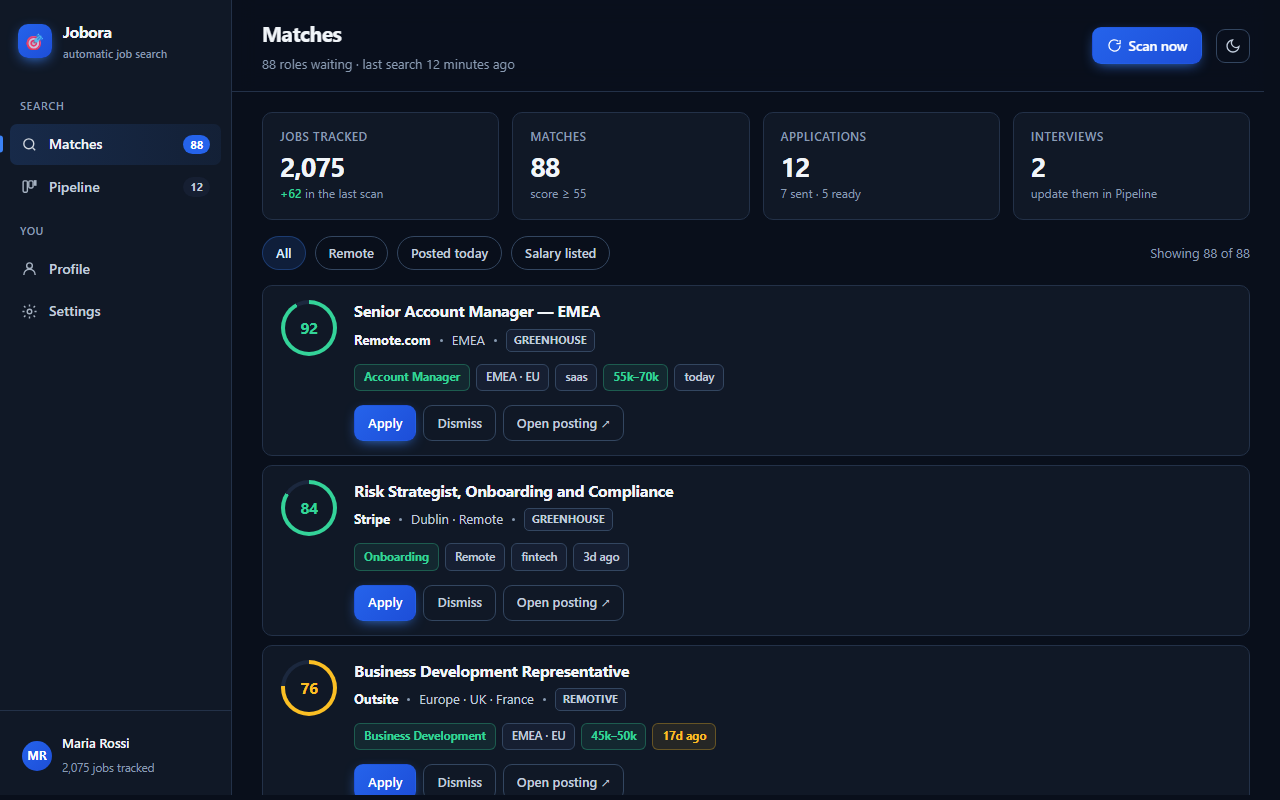
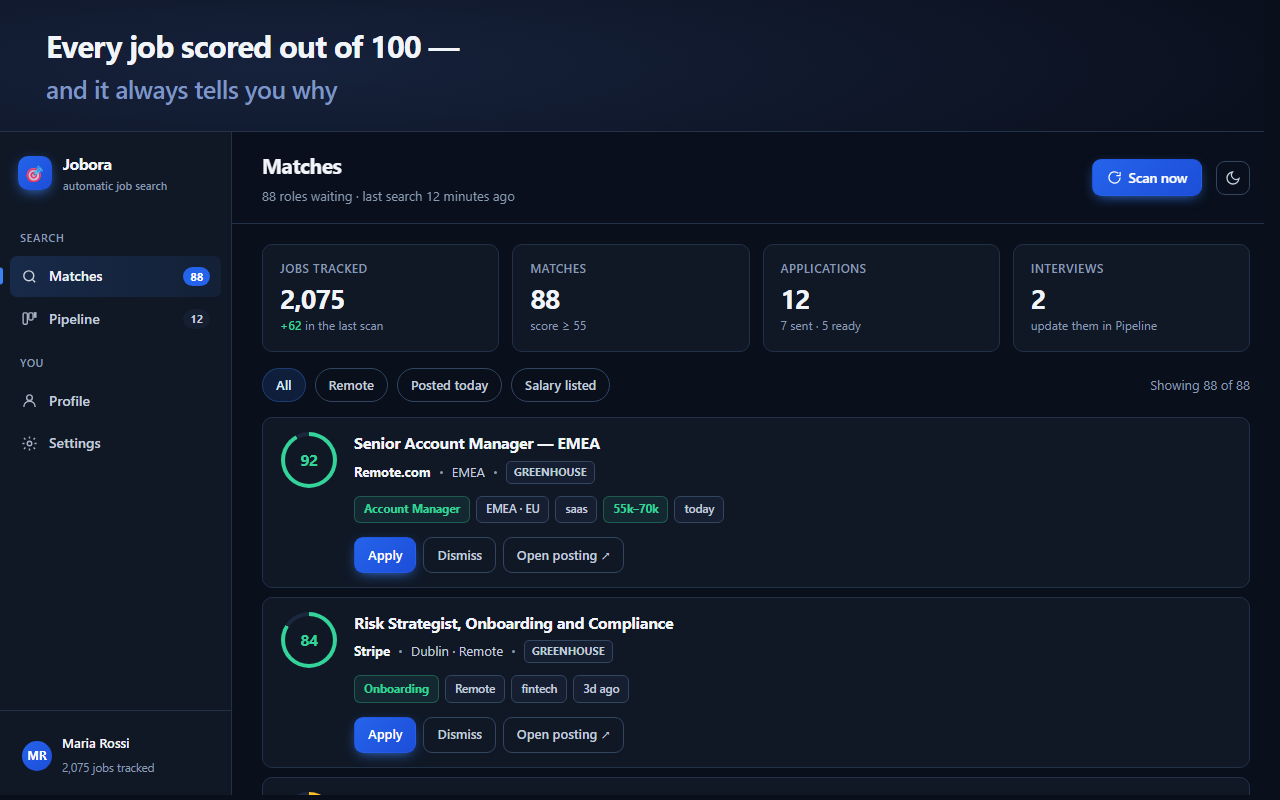
Give each screenshot a sentence
The listing showed five pictures of an interface and said nothing about them.
People scroll the screenshots before they read a word of the description, and a
screenshot of a dashboard teaches a stranger nothing — they cannot tell whether
the numbers beside each job are a score, a salary or a match percentage, and
they will not stop to work it out.

Each one now carries a headline band: what that screen gets you, not what it
contains. "Every job scored out of 100 — and it always tells you why." "One
click fills the form and attaches your CV as a real file." The application is
still fully visible underneath, in 668 pixels rather than 800, which costs one
row of cards on a page that was already cut off mid-scroll.

The bands come from the same HTML sources as the screenshots, so a caption can
be reworded in a text editor rather than an image editor — which is the whole
reason those sources exist, and the reason the old name could be replaced in
five pictures this afternoon instead of being redrawn.

diff --git a/store/screenshots/3-autofill.html b/store/screenshots/3-autofill.html
@@ -4,7 +4,7 @@
 <meta charset="utf-8">
 <title>Jobora — autofill</title>
 <style>
-html,body{width:1280px;height:800px;overflow:hidden;margin:0}
+html,body{width:1280px;height:668px;overflow:hidden;margin:0}
 body{background:#f4f6f9;font:15px/1.55 -apple-system,BlinkMacSystemFont,"Segoe UI",system-ui,sans-serif;color:#1b2029}
 .page{max-width:660px;margin:0 auto;padding:34px 24px}
 .crumb{color:#7a838f;font-size:13px;margin-bottom:6px}
@@ -28,9 +28,34 @@ textarea{height:96px;resize:none}
   border:1px solid #5b8cff;border-radius:10px;padding:14px 16px;font:14px/1.5 system-ui;
   box-shadow:0 8px 28px rgba(0,0,0,.45)}
 .jh-toast .dim{color:#9aa7b8;font-size:12.5px;margin-top:6px}
+
+/* ── Λωρίδα τίτλου: η μόνη πρόταση που θα διαβάσει ο περαστικός ── */
+html, body { height: 800px !important; }
+body { display: flex; flex-direction: column; }
+.shot-band {
+  flex: none;
+  height: 132px;
+  display: flex; flex-direction: column; justify-content: center;
+  padding: 0 46px;
+  background: radial-gradient(120% 200% at 22% 50%, #16223c 0%, #0a0f1c 70%);
+  border-bottom: 1px solid #24324a;
+  font: 400 16px/1.3 -apple-system, BlinkMacSystemFont, "Segoe UI", system-ui, sans-serif;
+  -webkit-font-smoothing: antialiased;
+}
+.shot-band b {
+  display: block;
+  color: #f1f5f9; font-size: 31px; font-weight: 700; letter-spacing: -0.9px;
+}
+.shot-band span {
+  display: block; margin-top: 7px;
+  color: #7f96c4; font-size: 25px; font-weight: 500; letter-spacing: -0.4px;
+}
+.app, body > .wrap, body > main { flex: 1; min-height: 0; }
+aside { height: 668px !important; }
 </style>
 </head>
 <body>
+<div class="shot-band"><b>One click fills the form</b><span>and attaches your CV as a real file</span></div>
 <div class="page">
   <div class="crumb">Remote.com › Careers › Sales</div>
   <h1>Senior Account Manager — EMEA</h1>

diff --git a/store/screenshots/4-onboarding.html b/store/screenshots/4-onboarding.html
@@ -5,7 +5,7 @@
 <title>Jobora — setup</title>
 <link rel="stylesheet" href="../../extension/app.css">
 <style>
-html,body{width:1280px;height:800px;overflow:hidden}
+html,body{width:1280px;height:668px;overflow:hidden}
 body{display:grid;place-items:center start;justify-content:center;padding:0}
 .ob{width:620px}
 .top{display:flex;align-items:center;gap:12px;margin-bottom:26px}
@@ -30,9 +30,34 @@ h2{font-size:22px;font-weight:680;letter-spacing:-.6px;margin-bottom:7px}
 .found .row b{font-weight:600}
 .nav-btns{display:flex;gap:10px;margin-top:26px;align-items:center}
 .skip{color:var(--fg-3);font-size:13px;margin-left:auto}
+
+/* ── Λωρίδα τίτλου: η μόνη πρόταση που θα διαβάσει ο περαστικός ── */
+html, body { height: 800px !important; }
+body { display: flex; flex-direction: column; }
+.shot-band {
+  flex: none;
+  height: 132px;
+  display: flex; flex-direction: column; justify-content: center;
+  padding: 0 46px;
+  background: radial-gradient(120% 200% at 22% 50%, #16223c 0%, #0a0f1c 70%);
+  border-bottom: 1px solid #24324a;
+  font: 400 16px/1.3 -apple-system, BlinkMacSystemFont, "Segoe UI", system-ui, sans-serif;
+  -webkit-font-smoothing: antialiased;
+}
+.shot-band b {
+  display: block;
+  color: #f1f5f9; font-size: 31px; font-weight: 700; letter-spacing: -0.9px;
+}
+.shot-band span {
+  display: block; margin-top: 7px;
+  color: #7f96c4; font-size: 25px; font-weight: 500; letter-spacing: -0.4px;
+}
+.app, body > .wrap, body > main { flex: 1; min-height: 0; }
+aside { height: 668px !important; }
 </style>
 </head>
 <body>
+<div class="shot-band"><b>Upload your CV once.</b><span>It fills in everything else from it</span></div>
 <div class="ob">
   <div class="top"><div class="mark">🎯</div>
     <div><b>Jobora</b><span>Three steps and it starts working for you</span></div></div>

diff --git a/store/screenshots/1-matches.html b/store/screenshots/1-matches.html
@@ -5,15 +5,40 @@
 <title>Jobora — matches</title>
 <link rel="stylesheet" href="../../extension/app.css">
 <style>
-html,body{width:1280px;height:800px;overflow:hidden}
-aside{height:800px}
+html,body{width:1280px;height:668px;overflow:hidden}
+aside{height:668px}
 /* συμπίεση ώστε να χωρέσουν 3 ολόκληρες κάρτες στα 800px */
 .wrap{padding:20px 30px 0}
 .stats{margin-bottom:16px}
 .card{margin-bottom:9px;padding:14px 18px}
+
+/* ── Λωρίδα τίτλου: η μόνη πρόταση που θα διαβάσει ο περαστικός ── */
+html, body { height: 800px !important; }
+body { display: flex; flex-direction: column; }
+.shot-band {
+  flex: none;
+  height: 132px;
+  display: flex; flex-direction: column; justify-content: center;
+  padding: 0 46px;
+  background: radial-gradient(120% 200% at 22% 50%, #16223c 0%, #0a0f1c 70%);
+  border-bottom: 1px solid #24324a;
+  font: 400 16px/1.3 -apple-system, BlinkMacSystemFont, "Segoe UI", system-ui, sans-serif;
+  -webkit-font-smoothing: antialiased;
+}
+.shot-band b {
+  display: block;
+  color: #f1f5f9; font-size: 31px; font-weight: 700; letter-spacing: -0.9px;
+}
+.shot-band span {
+  display: block; margin-top: 7px;
+  color: #7f96c4; font-size: 25px; font-weight: 500; letter-spacing: -0.4px;
+}
+.app, body > .wrap, body > main { flex: 1; min-height: 0; }
+aside { height: 668px !important; }
 </style>
 </head>
 <body>
+<div class="shot-band"><b>Every job scored out of 100 —</b><span>and it always tells you why</span></div>
 <div class="app">
 <aside>
   <div class="brand"><div class="mark">🎯</div><div><b>Jobora</b><small>automatic job search</small></div></div>

diff --git a/store/screenshots/5-profile.html b/store/screenshots/5-profile.html
@@ -5,13 +5,38 @@
 <title>Jobora — profile</title>
 <link rel="stylesheet" href="../../extension/app.css">
 <style>
-html,body{width:1280px;height:800px;overflow:hidden}
-aside{height:800px}
+html,body{width:1280px;height:668px;overflow:hidden}
+aside{height:668px}
 .wrap{padding:22px 30px 0}
 .sec{margin-bottom:16px}
+
+/* ── Λωρίδα τίτλου: η μόνη πρόταση που θα διαβάσει ο περαστικός ── */
+html, body { height: 800px !important; }
+body { display: flex; flex-direction: column; }
+.shot-band {
+  flex: none;
+  height: 132px;
+  display: flex; flex-direction: column; justify-content: center;
+  padding: 0 46px;
+  background: radial-gradient(120% 200% at 22% 50%, #16223c 0%, #0a0f1c 70%);
+  border-bottom: 1px solid #24324a;
+  font: 400 16px/1.3 -apple-system, BlinkMacSystemFont, "Segoe UI", system-ui, sans-serif;
+  -webkit-font-smoothing: antialiased;
+}
+.shot-band b {
+  display: block;
+  color: #f1f5f9; font-size: 31px; font-weight: 700; letter-spacing: -0.9px;
+}
+.shot-band span {
+  display: block; margin-top: 7px;
+  color: #7f96c4; font-size: 25px; font-weight: 500; letter-spacing: -0.4px;
+}
+.app, body > .wrap, body > main { flex: 1; min-height: 0; }
+aside { height: 668px !important; }
 </style>
 </head>
 <body>
+<div class="shot-band"><b>Your CV, your words, your photo —</b><span>kept on your own computer</span></div>
 <div class="app">
 <aside>
   <div class="brand"><div class="mark">🎯</div><div><b>Jobora</b><small>automatic job search</small></div></div>

diff --git a/store/screenshots/2-pipeline.html b/store/screenshots/2-pipeline.html
@@ -4,9 +4,34 @@
 <meta charset="utf-8">
 <title>Jobora — pipeline</title>
 <link rel="stylesheet" href="../../extension/app.css">
-<style>html,body{width:1280px;height:800px;overflow:hidden}aside{height:800px}</style>
+<style>html,body{width:1280px;height:668px;overflow:hidden}aside{height:668px}
+/* ── Λωρίδα τίτλου: η μόνη πρόταση που θα διαβάσει ο περαστικός ── */
+html, body { height: 800px !important; }
+body { display: flex; flex-direction: column; }
+.shot-band {
+  flex: none;
+  height: 132px;
+  display: flex; flex-direction: column; justify-content: center;
+  padding: 0 46px;
+  background: radial-gradient(120% 200% at 22% 50%, #16223c 0%, #0a0f1c 70%);
+  border-bottom: 1px solid #24324a;
+  font: 400 16px/1.3 -apple-system, BlinkMacSystemFont, "Segoe UI", system-ui, sans-serif;
+  -webkit-font-smoothing: antialiased;
+}
+.shot-band b {
+  display: block;
+  color: #f1f5f9; font-size: 31px; font-weight: 700; letter-spacing: -0.9px;
+}
+.shot-band span {
+  display: block; margin-top: 7px;
+  color: #7f96c4; font-size: 25px; font-weight: 500; letter-spacing: -0.4px;
+}
+.app, body > .wrap, body > main { flex: 1; min-height: 0; }
+aside { height: 668px !important; }
+</style>
 </head>
 <body>
+<div class="shot-band"><b>Every application in one place,</b><span>from prepared to offer</span></div>
 <div class="app">
 <aside>
   <div class="brand"><div class="mark">🎯</div><div><b>Jobora</b><small>automatic job search</small></div></div>
